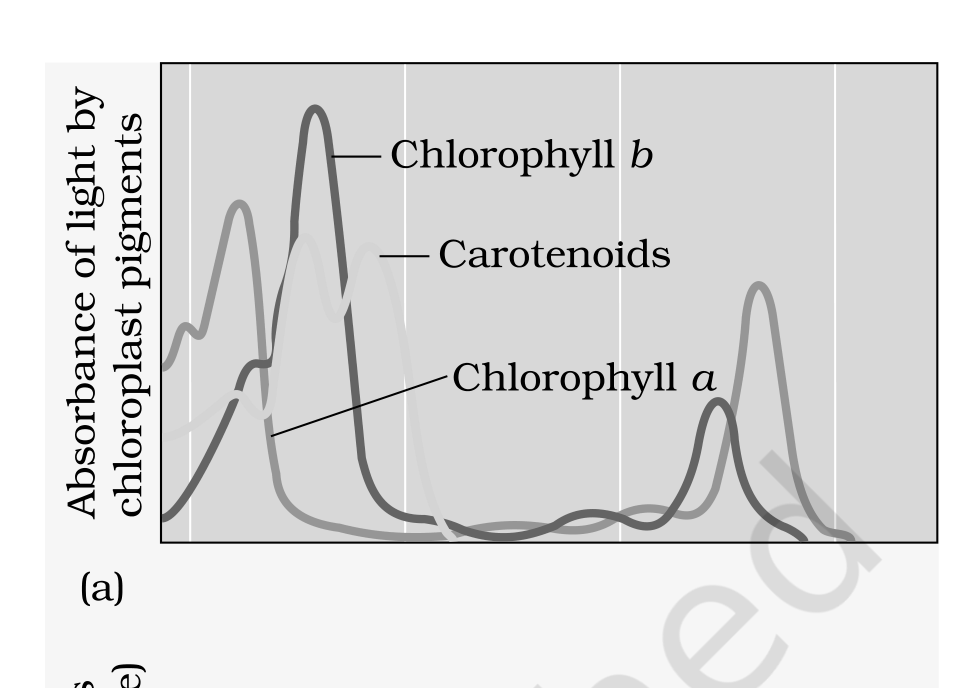
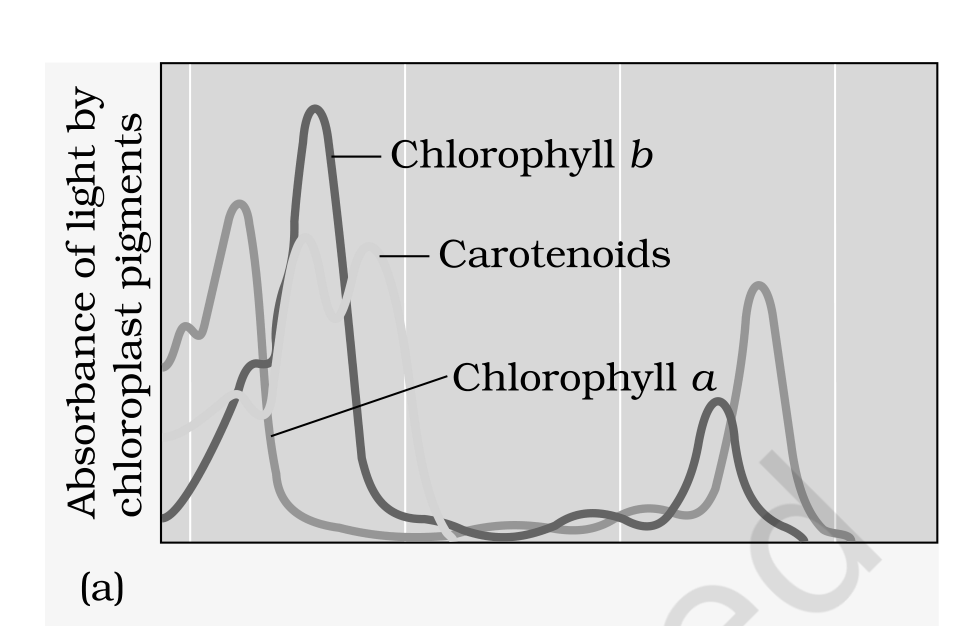
Fix Chapter 11 figure crops 3a 3b and 5

diff --git a/notes/class 11/Ch11_PhotosynthesisInHigherPlants/Ch11_PhotosynthesisInHigherPlants_extract_figures.py b/notes/class 11/Ch11_PhotosynthesisInHigherPlants/Ch11_PhotosynthesisInHigherPlants_extract_figures.py
@@ -17,11 +17,11 @@ RENDER_DPI = 300
 FIGS = [
     ("11_1", 4, (50, 105, 275, 435)),   # p4: 2x2 plate; x kept before prose column, bottom above caption y~389
     ("11_2", 6, (85, 495, 525, 685)),   # p6: chloroplast oval + all right labels; bottom above caption y~625
-    ("11_3a", 7, (290, 135, 520, 300)),  # p7: top absorption graph; includes pigment labels and axes
-    ("11_3b", 7, (290, 300, 520, 435)), # p7: middle action-spectrum graph; includes y-axis and curve
+    ("11_3a", 7, (290, 135, 520, 285)),  # p7: top absorption graph; includes pigment labels and axes
+    ("11_3b", 7, (290, 300, 520, 420)), # p7: middle action-spectrum graph; includes y-axis and curve
     ("11_3c", 7, (290, 430, 520, 595)), # p7: bottom superimposed graph; includes legend and wavelength axis
     ("11_4", 8, (60, 285, 285, 475)),   # p8: light-harvesting complex; right edge before prose, bottom above caption
-    ("11_5", 9, (280, 100, 525, 290)),   # p9: Z scheme; right-column diagram, caption begins below y~265
+    ("11_5", 9, (280, 100, 525, 325)),   # p9: Z scheme; right-column diagram, caption begins below y~265
     ("11_6", 10, (60, 105, 275, 305)),   # p10: cyclic photophosphorylation; left-column diagram, caption below
     ("11_7", 11, (70, 90, 505, 395)),   # p11: complete chemiosmosis diagram; bottom above caption y~350
     ("11_8", 14, (105, 100, 480, 515)),  # p14: Calvin cycle; includes all stage labels/arrows, caption below

diff --git a/scratch/regenerate_target_figures.py b/scratch/regenerate_target_figures.py
@@ -1,0 +1,24 @@
+import os
+import importlib.util
+import pymupdf
+from PIL import Image, ImageOps
+
+BASE = os.path.dirname(os.path.dirname(__file__))
+script_path = os.path.join(BASE, 'notes/class 11/Ch11_PhotosynthesisInHigherPlants/Ch11_PhotosynthesisInHigherPlants_extract_figures.py')
+spec = importlib.util.spec_from_file_location('extractor', script_path)
+extractor = importlib.util.module_from_spec(spec)
+spec.loader.exec_module(extractor)
+
+targets = {'11_3a', '11_3b', '11_5'}
+doc = pymupdf.open(os.path.join(BASE, extractor.SRC))
+out_dir = os.path.join(BASE, extractor.OUT_DIR)
+os.makedirs(out_dir, exist_ok=True)
+for fid, pno, rect in extractor.FIGS:
+    if fid not in targets:
+        continue
+    page = doc[pno - 1]
+    pix = page.get_pixmap(clip=pymupdf.Rect(*rect) & page.rect, dpi=extractor.RENDER_DPI, alpha=False)
+    img = ImageOps.autocontrast(Image.frombytes('RGB', (pix.width, pix.height), pix.samples).convert('L'), cutoff=1)
+    out = os.path.join(out_dir, f'fig_{fid}.png')
+    img.save(out, optimize=True)
+    print(f'fig_{fid}: p{pno} {rect} {img.size} mode={img.mode} -> {out}')

diff --git a/scratch/target_contact_sheet.py b/scratch/target_contact_sheet.py
@@ -1,0 +1,12 @@
+from pathlib import Path
+from PIL import Image, ImageDraw
+base=Path('notes/class 11/Ch11_PhotosynthesisInHigherPlants/assets')
+files=[base/'fig_11_3a.png',base/'fig_11_3b.png',base/'fig_11_5.png']
+W=700; H=500
+sheet=Image.new('RGB',(W*3,H),'#dddddd')
+for i,p in enumerate(files):
+    im=Image.open(p).convert('L'); im.thumbnail((W-20,H-45))
+    card=Image.new('RGB',(W,H),'white'); card.paste(im,((W-im.width)//2,30))
+    ImageDraw.Draw(card).text((10,8),p.stem,fill='black')
+    sheet.paste(card,(i*W,0))
+sheet.save('notes/class 11/Ch11_PhotosynthesisInHigherPlants/review/target_contact_sheet.png')

diff --git a/notes/class 11/Ch11_PhotosynthesisInHigherPlants/Ch11_PhotosynthesisInHigherPlants_inventory.md b/notes/class 11/Ch11_PhotosynthesisInHigherPlants/Ch11_PhotosynthesisInHigherPlants_inventory.md
@@ -28,11 +28,11 @@ Every asset is rendered at 300 dpi from a hand-pinned PDF rectangle, converted t
 |---|---:|---|---|
 | `fig_11_1.png` | 4 | `(50, 105, 275, 435)` | Four-panel Priestley experiment: bell jars, mouse, candles, plant, arrows, and `(a)`–`(d)` markers. |
 | `fig_11_2.png` | 6 | `(85, 495, 525, 685)` | Chloroplast diagram with the complete oval, internal structures, and labels from Outer membrane through Lipid droplet. |
-| `fig_11_3a.png` | 7 | `(290, 135, 520, 300)` | Absorption spectrum panel with y-axis, curves, Chlorophyll *a*, Chlorophyll *b*, Carotenoids, and `(a)`. |
-| `fig_11_3b.png` | 7 | `(290, 300, 520, 435)` | Action spectrum panel with y-axis, curve, and `(b)`. |
+| `fig_11_3a.png` | 7 | `(290, 135, 520, 285)` | Absorption spectrum panel with y-axis, curves, Chlorophyll *a*, Chlorophyll *b*, Carotenoids, and `(a)`, ending before the next panel. |
+| `fig_11_3b.png` | 7 | `(290, 300, 520, 420)` | Action spectrum panel with y-axis, curve, and `(b)`, ending before the next panel. |
 | `fig_11_3c.png` | 7 | `(290, 430, 520, 595)` | Superimposed action/absorption panel with legend, y-axis, wavelength axis, tick labels, and `(c)`. |
 | `fig_11_4.png` | 8 | `(60, 285, 285, 475)` | Light-harvesting complex: Photon, pigment molecules, reaction centre, primary acceptor, and arrows. |
-| `fig_11_5.png` | 9 | `(280, 100, 525, 290)` | Z scheme: Photosystems II/I, electron acceptors, LHCs, electron transport system, ATP/ADP+iP, NADPH/NADP+, water annotation, and arrows. |
+| `fig_11_5.png` | 9 | `(280, 100, 525, 325)` | Complete Z scheme: Photosystems II/I, both electron acceptors, both LHCs, electron transport system, ATP/ADP+iP, NADPH/NADP+, water-splitting annotation, and arrows. |
 | `fig_11_6.png` | 10 | `(60, 105, 275, 305)` | Cyclic photophosphorylation: Light, Photosystem I, electron acceptor, electron transport system, ADP+iP/ATP, Chlorophyll P700, and arrows. |
 | `fig_11_7.png` | 11 | `(70, 90, 505, 395)` | Chemiosmosis: thylakoid membrane, stroma/lumen, PS II/P680, cytochrome b6f, PS I/P700, carriers, H+ marks, NADP(H), ATP synthase, and gradients. |
 | `fig_11_8.png` | 14 | `(105, 100, 480, 515)` | Calvin cycle: Atmosphere, CO2+H2O, RuBP, 3-phosphoglycerate, triose phosphate, carboxylation, reduction, regeneration, ATP/NADPH products, arrows, and stage circles 1–3. |
@@ -44,6 +44,10 @@ The chapter therefore contains **12 extracted assets**: Figures 11.1, 11.2, 11.3
 ## Validation record
 
 The mechanical audit in `figure_audit.txt` ran three complementary checks. Text-layer grazing was clean for all crops except the legitimate in-figure `LHC` label in Figure 11.5. Drawing-extent checks showed only small edge intersections for complex vector strokes at Figure 11.1, Figure 11.2, and Figure 11.3c; visual inspection confirmed that no visible panel, label, arrow, or terminal mark was clipped. Border-band ink reports are conservative because the source pages contain diagonal watermark artwork and vector strokes adjacent to figure edges; they were reviewed against the final contact sheet rather than treated as standalone failure signals. The image-mode check passed for all 12 assets: every PNG is mode `L` (true grayscale), and the contact sheet was visually reviewed after the final regeneration.
+
+### Targeted rework record
+
+The three requested assets were regenerated independently after targeted visual review. Figure 11.3a now ends immediately after the `(a)` marker; Figure 11.3b now ends immediately after the `(b)` marker; and Figure 11.5 now extends through both LHCs and the lower water-splitting annotation while stopping before the caption. The focused contact sheet at `review/target_contact_sheet.png` was reviewed after regeneration. The targeted regeneration script and log are saved as `scratch/regenerate_target_figures.py` and `target_regeneration_log.txt`.
 
 The main quality controls requested for this chapter are satisfied: the crops use compact geometry rather than large page regions, spacing is kept close to the artwork with approximately 10-point safety margins where feasible, and all figure labels and panel markers are retained in the final assets. The final visual contact sheet is included as a supporting review artifact.
 

diff --git a/scratch/ch11_grid_findings.md b/scratch/ch11_grid_findings.md
@@ -27,3 +27,7 @@ Full-resolution p16: Figure 11.9 is a large lower-page Hatch and Slack pathway d
 First regenerated contact-sheet review found crop defects: Figure 11.1 included a neighboring prose strip at the far right; Figure 11.2 included preceding prose above the chloroplast; Figure 11.3a–c needed panel-boundary repinning to avoid clipped axes/adjacent panels; Figure 11.4 clipped the lower pigment cluster; Figure 11.5 clipped the left Light node; Figure 11.6 clipped the lower Chlorophyll P700 node; Figure 11.7 clipped the lower ATP-synthase region; Figure 11.8 included page-furniture/header ink at the top and clipped lower labels. These are being corrected by tighter x/y pins while retaining approximately 10-point artwork safety margins.
 
 Final contact-sheet review confirms the main figure regions are correct but identifies remaining edge defects: Figure 11.2 still has one preceding word at the top and omits lower labels; Figure 11.3a–c need small vertical extensions to retain panel markers and the lower x-axis; Figure 11.4 needs a lower extension for the pigment-molecule cluster; Figures 11.5–11.7 need small bottom/left extensions for lower nodes or labels; Figure 11.8 needs a lower extension for `Sucrose, starch`. Figure 11.9 and Figure 11.10 are complete and compact.
+
+Targeted rework review: `fig_11_5.png` is clipped at the bottom, cutting off the lower-left LHC/Photosystem II continuation and associated arrows/labels. Its crop must extend downward while stopping before the Figure 11.5 caption. `fig_11_3a.png` includes the complete top graph and pigment labels, but its lower edge includes the beginning of the following panel/marker region; it should be repinned to stop immediately after panel (a), with the panel marker retained and no neighboring panel fragment.
+
+Targeted visual review: Figure 11.5 now contains the complete Z-scheme diagram, including both LHCs and the lower water-splitting annotation, with no caption intrusion. Figure 11.3a still shows the beginning of the next panel below `(a)`, and Figure 11.3b still shows the beginning of the next panel below `(b)`; their bottom edges must be tightened to end immediately after the retained panel marker.
